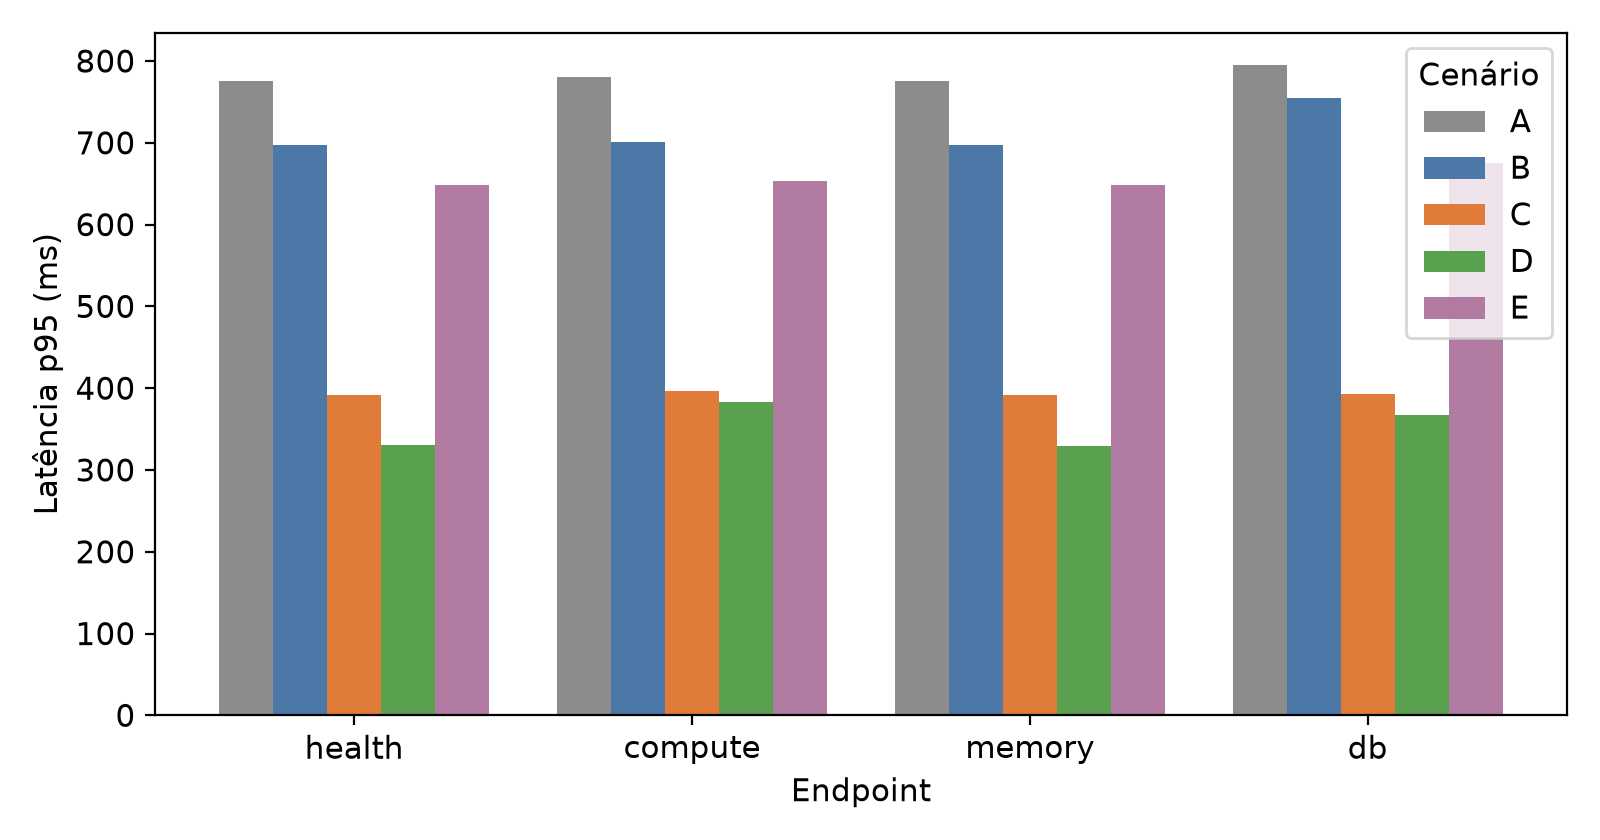
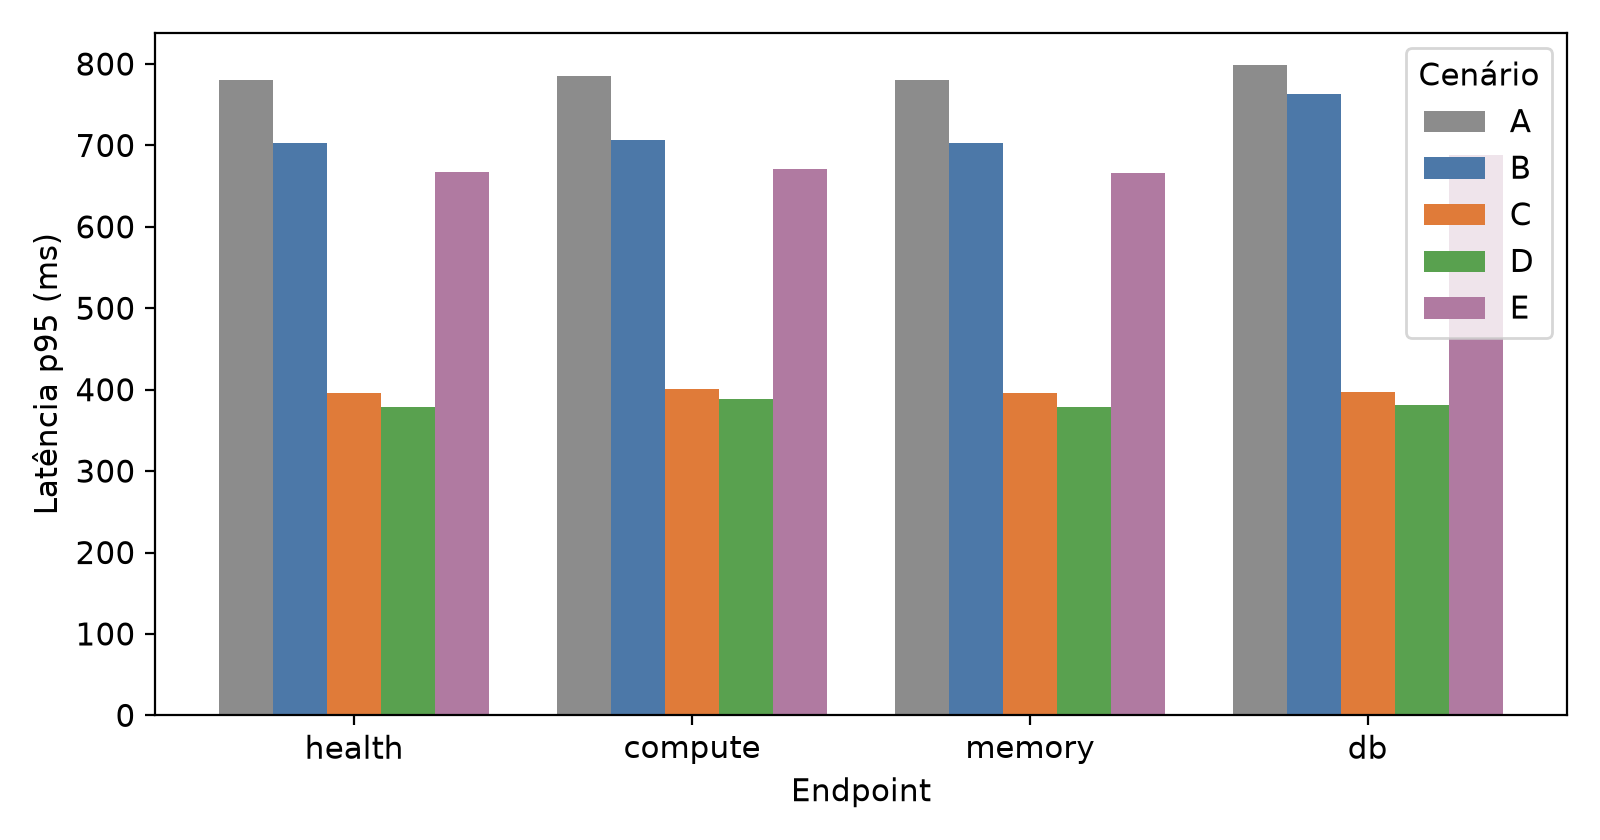
fix: Calcula a vazão e as latências do TCC no patamar de 10 min (e não na execução inteira)

diff --git a/scripts/analyze.py b/scripts/analyze.py
@@ -22,6 +22,7 @@ NOMES = {
     "d": "D — Laravel Octane",
     "e": "E — CI4 + FrankenPHP clássico (threads padrão)",
 }
+PLATEAU_S = 600  # duração do patamar (s) nas execuções de 15 min
 ENDPOINTS = ["health", "compute", "memory", "db"]
 CORES = {"a": "#8c8c8c", "b": "#4c78a8", "c": "#e07b39", "d": "#59a14f", "e": "#b07aa1"}
 
@@ -31,17 +32,19 @@ def load():
     for p in sorted(RUNS.glob("*-run*/last-run.json")):
         s = p.parent.name.split("-")[0]
         m = json.load(open(p))["metrics"]
+        sf = "{phase:plateau}"  # patamar de 10 min (aquecimento, rampa e descida excluídos)
+        dur = m[f"http_req_duration{sf}"]
         run = {
-            "rps": m["http_reqs"]["rate"],
-            "reqs": m["http_reqs"]["count"],
-            "err": m["http_req_failed"].get("value", m["http_req_failed"].get("rate", 0)),
-            "avg": m["http_req_duration"]["avg"],
-            "p50": m["http_req_duration"]["med"],
-            "p95": m["http_req_duration"]["p(95)"],
-            "p99": m["http_req_duration"].get("p(99)", float("nan")),
+            "rps": m[f"http_reqs{sf}"]["count"] / PLATEAU_S,   # o campo `rate` da submétrica divide pela duração total
+            "reqs": m[f"http_reqs{sf}"]["count"],
+            "err": m[f"http_req_failed{sf}"].get("value", m[f"http_req_failed{sf}"].get("rate", 0)),
+            "avg": dur["avg"],
+            "p50": dur["med"],
+            "p95": dur["p(95)"],
+            "p99": dur.get("p(99)", float("nan")),
         }
         for e in ENDPOINTS:
-            k = f"endpoint_{e}_duration"
+            k = f"endpoint_{e}_duration{sf}"
             if k in m:
                 run[f"{e}_avg"] = m[k]["avg"]
                 run[f"{e}_p95"] = m[k]["p(95)"]
@@ -127,8 +130,9 @@ def longos():
             continue
         prim = [p[1] for p in pts if p[0] <= 5]
         ult = [p[1] for p in pts if p[0] >= 25]
-        out.append(f"| {NOMES[s]} | {m['http_reqs']['rate']:.1f} | {m['http_req_duration']['p(95)']:.1f} | "
-                   f"{m['http_req_duration']['p(99)']:.1f} | {st.mean(prim):.1f} | {st.mean(ult):.1f} | {max(p[1] for p in pts):.1f} |")
+        sf = "{phase:plateau}"  # patamar de 30 min
+        out.append(f"| {NOMES[s]} | {m[f'http_reqs{sf}']['count'] / 1800:.1f} | {m[f'http_req_duration{sf}']['p(95)']:.1f} | "
+                   f"{m[f'http_req_duration{sf}']['p(99)']:.1f} | {st.mean(prim):.1f} | {st.mean(ult):.1f} | {max(p[1] for p in pts):.1f} |")
     (OUT / "tabela_longos.md").write_text("\n".join(out) + "\n")
     with open(OUT / "longos_ram.csv", "w", newline="") as f:
         w = csv.writer(f)

diff --git a/results/analysis/estatistica.md b/results/analysis/estatistica.md
@@ -1,37 +1,37 @@
 # Testes estatísticos (n=3 por cenário)
 
 ## RPS
-ANOVA: F = 3311.6, p = 1.46e-15
+ANOVA: F = 10524.5, p = 4.53e-18
 
 | Comparação | diferença (%) | t (Welch) | p | p ajustado (Bonferroni) |
 |---|---|---|---|---|
-| B vs A | +8.7 | 14.3 | 1.92e-03 | 1.15e-02 |
-| E vs B | +12.4 | 15.0 | 1.46e-04 | 8.75e-04 |
-| C vs A | +121.4 | 49.3 | 3.78e-04 | 2.27e-03 |
-| C vs B | +103.7 | 44.7 | 2.55e-04 | 1.53e-03 |
-| C vs E | +81.3 | 38.9 | 2.58e-04 | 1.55e-03 |
-| D vs C | +10.4 | 9.3 | 9.83e-03 | 5.90e-02 |
+| B vs A | +8.8 | 12.5 | 2.24e-03 | 1.34e-02 |
+| E vs B | +13.2 | 14.6 | 1.37e-04 | 8.23e-04 |
+| C vs A | +112.2 | 127.9 | 1.36e-05 | 8.18e-05 |
+| C vs B | +95.0 | 96.9 | 1.45e-07 | 8.69e-07 |
+| C vs E | +72.3 | 80.0 | 1.87e-07 | 1.12e-06 |
+| D vs C | +10.9 | 24.9 | 2.18e-04 | 1.31e-03 |
 
 ## Latência p95
-ANOVA: F = 2179.3, p = 1.18e-14
+ANOVA: F = 550.7, p = 1.13e-11
 
 | Comparação | diferença (%) | t (Welch) | p | p ajustado (Bonferroni) |
 |---|---|---|---|---|
-| B vs A | -9.6 | -21.4 | 4.48e-04 | 2.69e-03 |
-| E vs B | -7.0 | -5.6 | 1.65e-02 | 9.88e-02 |
-| C vs A | -49.8 | -274.2 | 2.52e-06 | 1.51e-05 |
-| C vs B | -44.5 | -96.1 | 8.55e-05 | 5.13e-04 |
-| C vs E | -40.3 | -32.2 | 9.39e-04 | 5.64e-03 |
-| D vs C | -4.9 | -23.8 | 1.17e-04 | 7.01e-04 |
+| B vs A | -5.9 | -2.8 | 1.08e-01 | 6.49e-01 |
+| E vs B | -9.0 | -3.6 | 3.98e-02 | 2.39e-01 |
+| C vs A | -49.6 | -292.5 | 1.77e-06 | 1.06e-05 |
+| C vs B | -46.5 | -20.6 | 2.33e-03 | 1.40e-02 |
+| C vs E | -41.1 | -36.4 | 7.31e-04 | 4.39e-03 |
+| D vs C | -3.6 | -35.2 | 4.35e-04 | 2.61e-03 |
 
 ## Latência p99
-ANOVA: F = 1107.4, p = 3.47e-13
+ANOVA: F = 855.2, p = 1.26e-12
 
 | Comparação | diferença (%) | t (Welch) | p | p ajustado (Bonferroni) |
 |---|---|---|---|---|
-| B vs A | -2.2 | -2.1 | 1.62e-01 | 9.69e-01 |
-| E vs B | -7.9 | -4.6 | 1.17e-02 | 7.03e-02 |
-| C vs A | -49.3 | -223.9 | 1.52e-06 | 9.13e-06 |
-| C vs B | -48.2 | -45.7 | 4.45e-04 | 2.67e-03 |
-| C vs E | -43.7 | -29.3 | 1.12e-03 | 6.74e-03 |
-| D vs C | -2.2 | -14.0 | 3.24e-03 | 1.94e-02 |
+| B vs A | -1.7 | -2.0 | 1.27e-01 | 7.60e-01 |
+| E vs B | -7.4 | -3.8 | 3.87e-02 | 2.32e-01 |
+| C vs A | -49.4 | -109.1 | 4.22e-05 | 2.53e-04 |
+| C vs B | -48.5 | -65.2 | 1.88e-04 | 1.13e-03 |
+| C vs E | -44.4 | -22.9 | 1.85e-03 | 1.11e-02 |
+| D vs C | -2.1 | -11.4 | 6.10e-03 | 3.66e-02 |

diff --git a/results/analysis/tabela_endpoints.md b/results/analysis/tabela_endpoints.md
@@ -1,7 +1,7 @@
 | Cenário | health avg / p95 (ms) | compute avg / p95 (ms) | memory avg / p95 (ms) | db avg / p95 (ms) |
 |---|---|---|---|---|
-| A — CI4 + PHP-FPM | 529.0 / 775.2 | 536.8 / 781.0 | 527.8 / 775.6 | 565.3 / 794.5 |
-| B — CI4 + FrankenPHP clássico | 482.2 / 697.3 | 492.1 / 700.9 | 484.2 / 697.3 | 525.4 / 754.5 |
-| C — CI4 + FrankenPHP Worker | 241.3 / 392.0 | 251.1 / 397.1 | 241.3 / 392.1 | 242.2 / 392.7 |
-| D — Laravel Octane | 217.5 / 331.1 | 228.1 / 382.7 | 217.2 / 328.7 | 219.7 / 367.4 |
-| E — CI4 + FrankenPHP clássico (threads padrão) | 436.8 / 648.9 | 439.9 / 652.9 | 436.5 / 648.9 | 456.9 / 674.9 |
+| A — CI4 + PHP-FPM | 684.2 / 780.2 | 691.3 / 784.7 | 683.7 / 780.5 | 721.3 / 798.2 |
+| B — CI4 + FrankenPHP clássico | 625.3 / 702.9 | 634.2 / 706.4 | 625.0 / 702.6 | 669.2 / 763.2 |
+| C — CI4 + FrankenPHP Worker | 324.3 / 396.1 | 336.2 / 400.4 | 324.1 / 396.2 | 326.1 / 396.7 |
+| D — Laravel Octane | 291.6 / 379.1 | 304.4 / 388.9 | 291.4 / 378.6 | 294.1 / 381.2 |
+| E — CI4 + FrankenPHP clássico (threads padrão) | 558.7 / 667.2 | 562.9 / 670.6 | 558.9 / 666.5 | 579.4 / 688.5 |

diff --git a/results/analysis/tabela_global.md b/results/analysis/tabela_global.md
@@ -1,7 +1,7 @@
 | Cenário | n | RPS (média ± dp) | Latência p50 (ms) | p95 (ms) | p99 (ms) | Erros (%) |
 |---|---|---|---|---|---|---|
-| A — CI4 + PHP-FPM | 3 | 143.7 ± 0.5 | 687.4 | 785.6 | 800.5 | 0.00 |
-| B — CI4 + FrankenPHP clássico | 3 | 156.1 ± 1.4 | 602.7 | 710.0 | 782.9 | 0.00 |
-| C — CI4 + FrankenPHP Worker | 3 | 318.1 ± 6.1 | 300.2 | 394.1 | 405.7 | 0.00 |
-| D — Laravel Octane | 3 | 351.3 ± 0.9 | 287.6 | 374.6 | 396.8 | 0.00 |
-| E — CI4 + FrankenPHP clássico (threads padrão) | 3 | 175.5 ± 1.7 | 524.6 | 660.6 | 720.7 | 0.00 |
+| A — CI4 + PHP-FPM | 3 | 143.2 ± 0.6 | 698.2 | 789.7 | 807.2 | 0.00 |
+| B — CI4 + FrankenPHP clássico | 3 | 155.8 ± 1.6 | 618.0 | 743.2 | 793.2 | 0.00 |
+| C — CI4 + FrankenPHP Worker | 3 | 303.9 ± 2.1 | 309.8 | 397.9 | 408.3 | 0.00 |
+| D — Laravel Octane | 3 | 336.9 ± 1.0 | 298.2 | 383.6 | 399.7 | 0.00 |
+| E — CI4 + FrankenPHP clássico (threads padrão) | 3 | 176.4 ± 1.8 | 563.3 | 676.1 | 734.3 | 0.00 |

diff --git a/results/analysis/tabela_longos.md b/results/analysis/tabela_longos.md
@@ -1,4 +1,4 @@
 | Cenário | RPS | p95 (ms) | p99 (ms) | RAM 1ª janela (MiB) | RAM última janela (MiB) | RAM pico (MiB) |
 |---|---|---|---|---|---|---|
-| C — CI4 + FrankenPHP Worker | 310.1 | 396.1 | 406.7 | 125.8 | 126.0 | 127.0 |
-| D — Laravel Octane | 346.8 | 376.5 | 397.0 | 171.3 | 171.8 | 174.2 |
+| C — CI4 + FrankenPHP Worker | 304.4 | 397.5 | 407.6 | 125.8 | 126.0 | 127.0 |
+| D — Laravel Octane | 340.6 | 380.0 | 398.2 | 171.3 | 171.8 | 174.2 |
